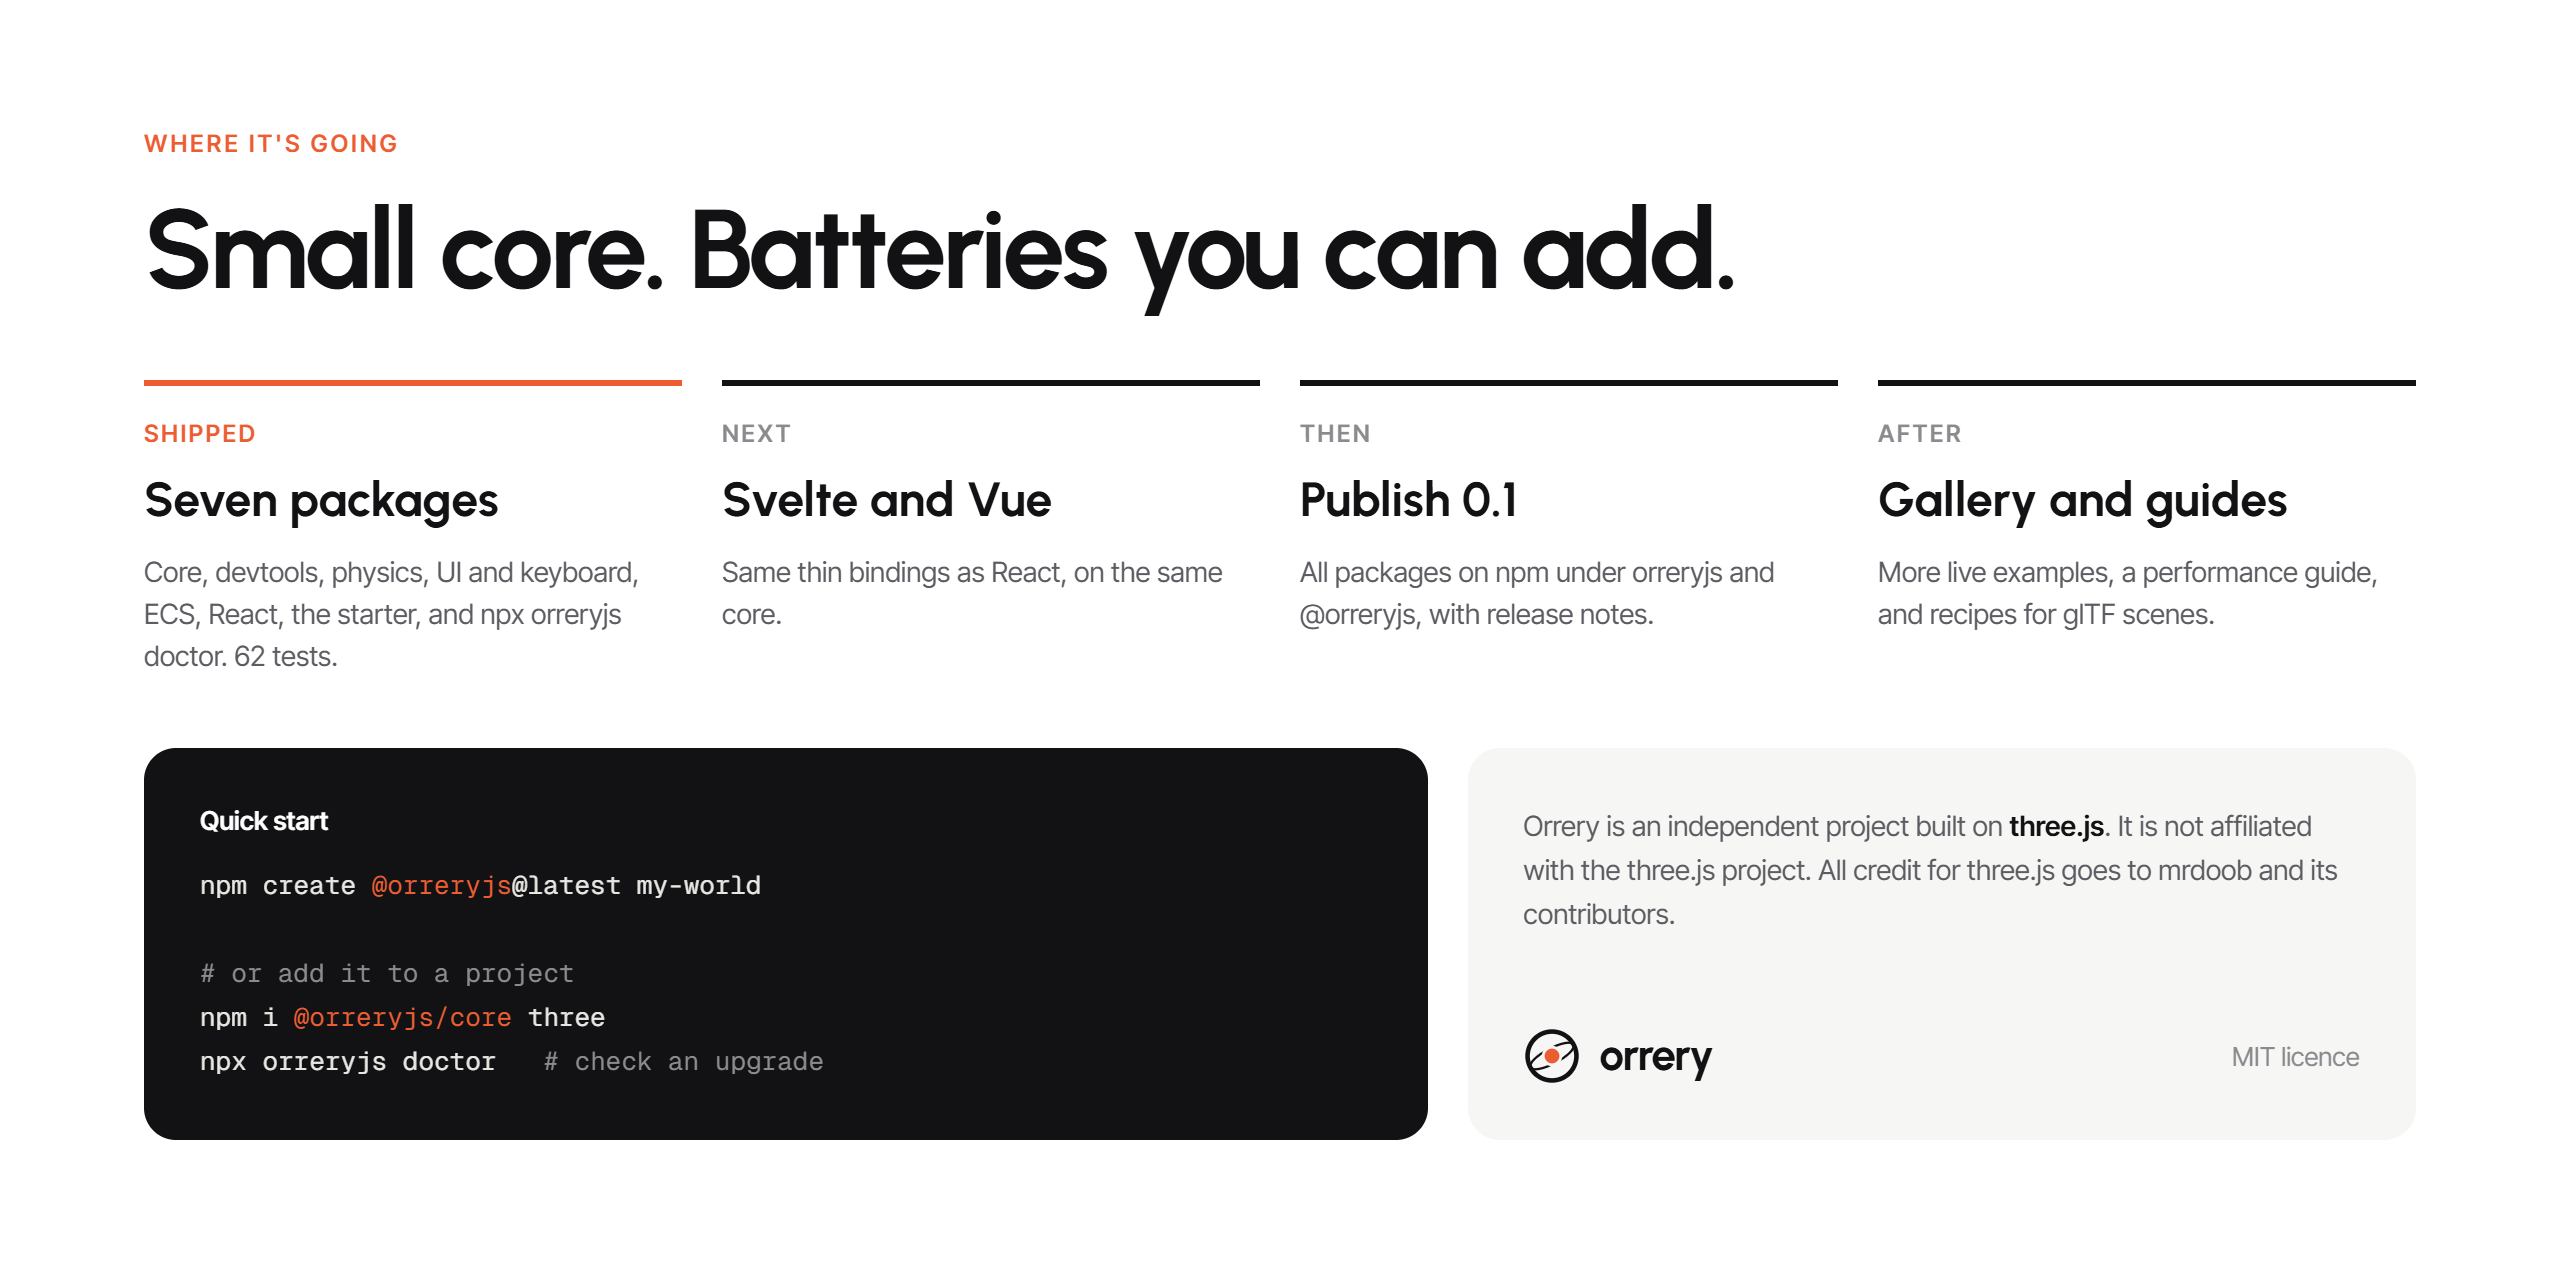
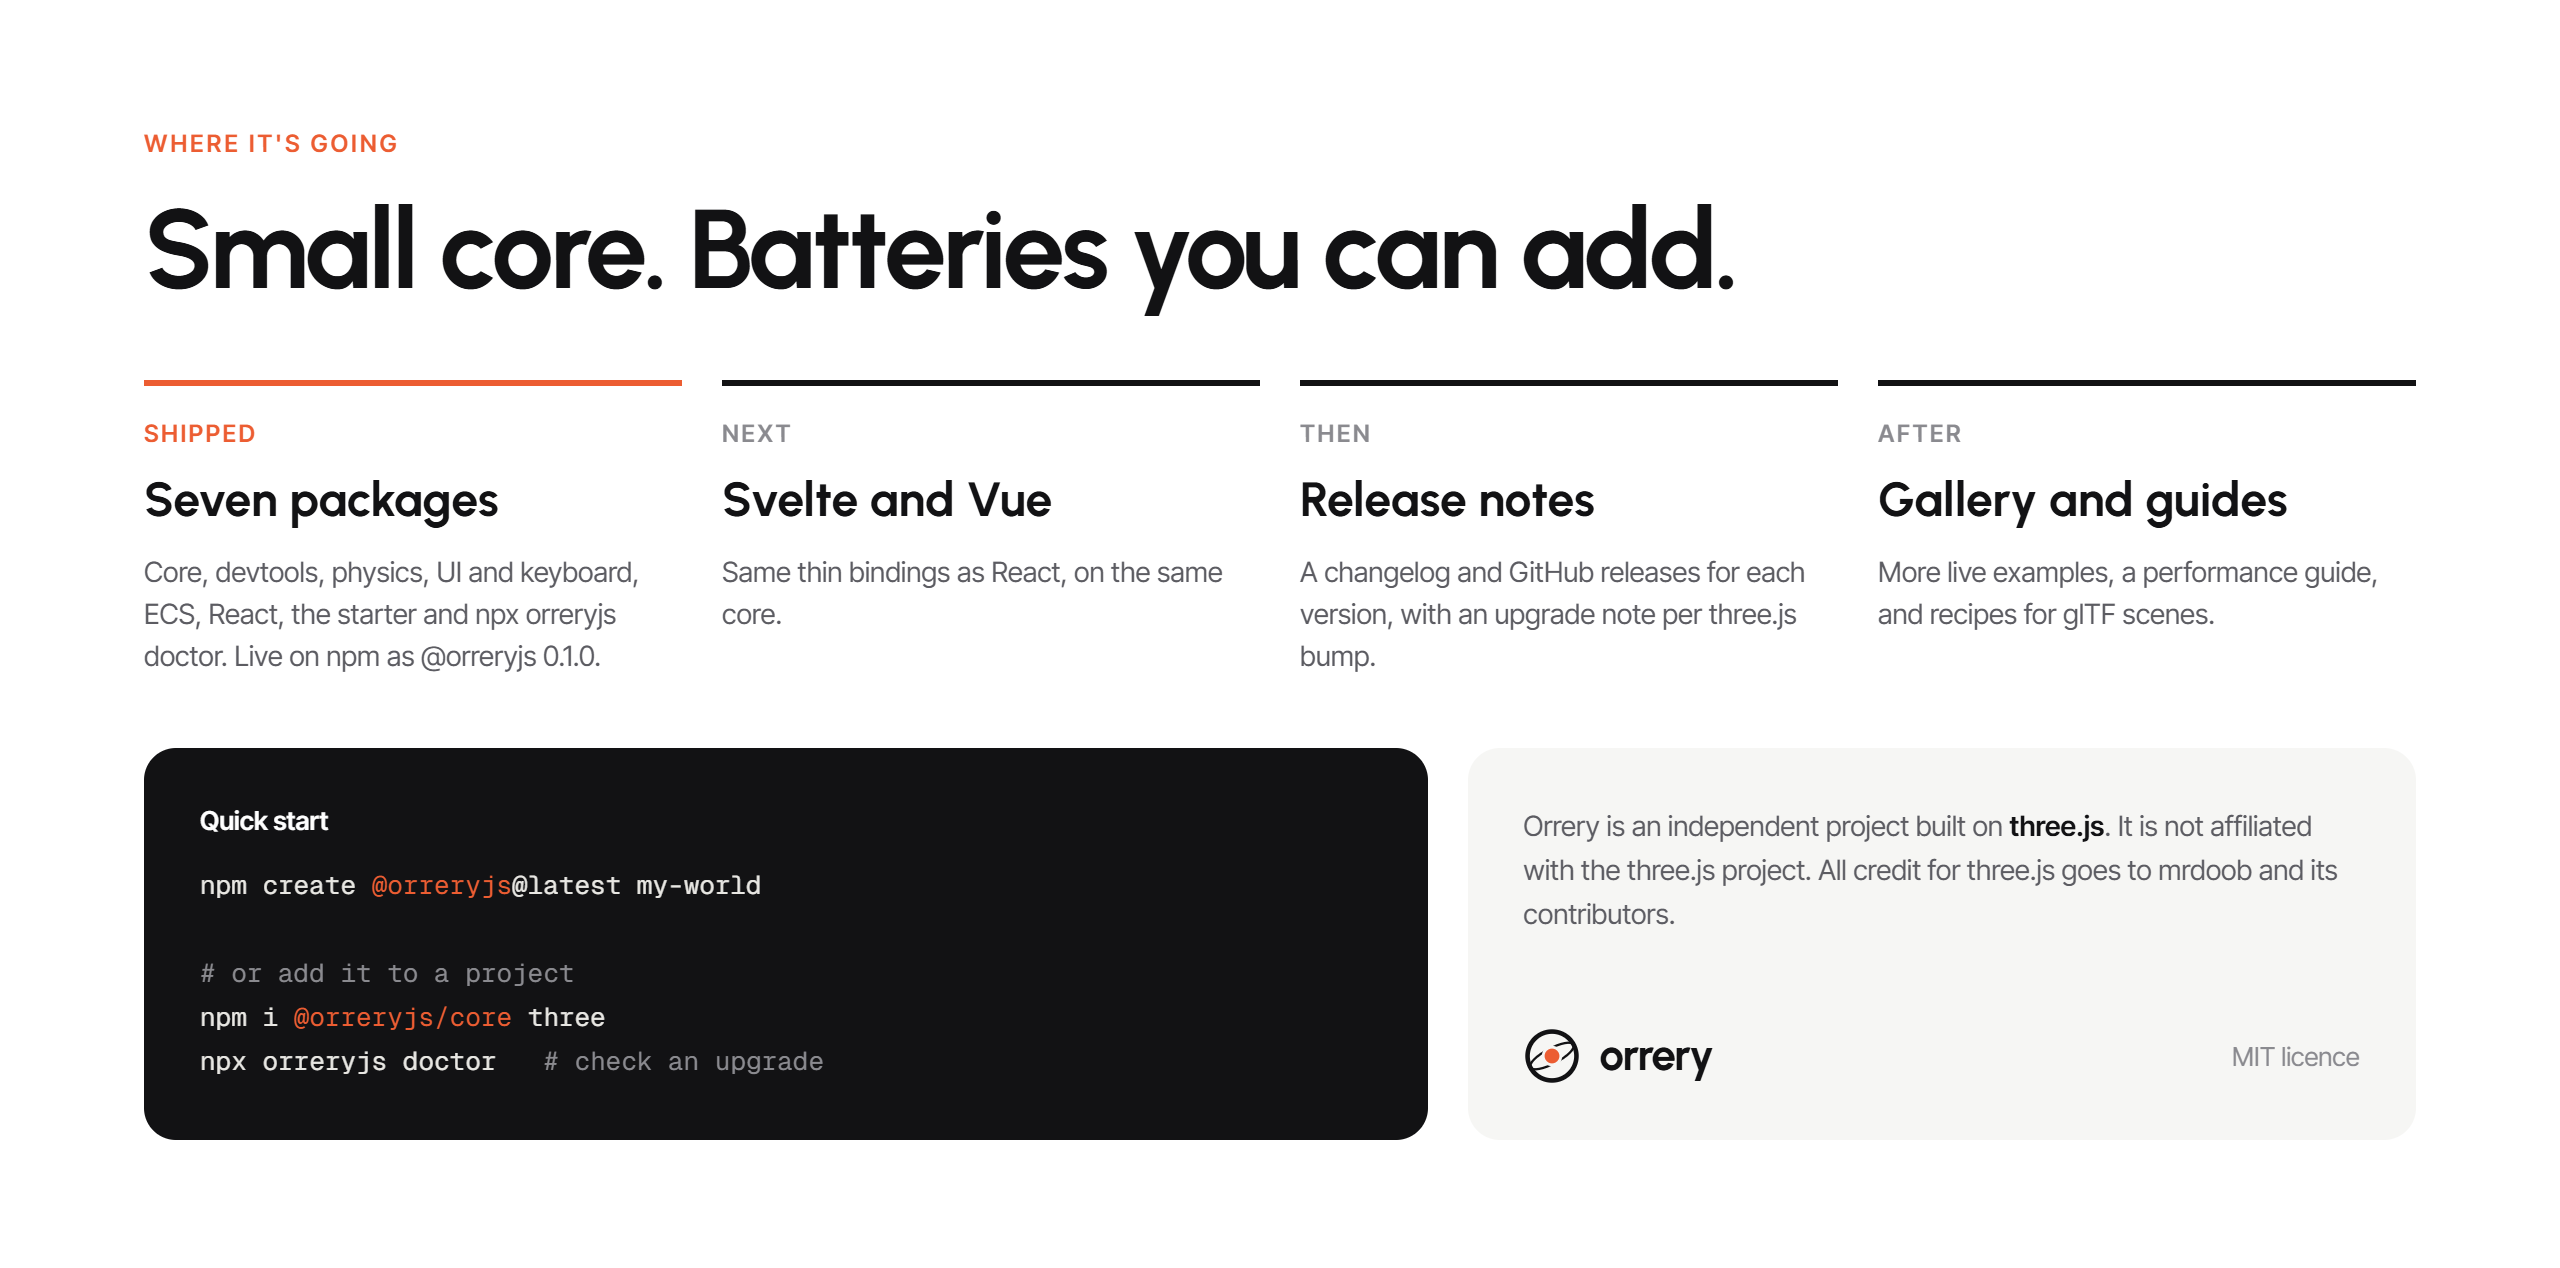
Released @orreryjs 0.1.0 to npm
- scripts/publish.ps1 publishes every package from a real terminal so
  npm can wait for security-key approval
- README: npm and CI badges; roadmap panel marks 0.1.0 as shipped
- Verified from the public registry: npm create @orreryjs, install, vite
  build, devtools on WebGPU in Chrome, npx orreryjs doctor all clear

Changed region(s): [[0.5, 0.3691, 0.7188, 0.5229], [0.0938, 0.4614, 0.25, 0.5229]]

diff --git a/packages/core/README.md b/packages/core/README.md
@@ -1,6 +1,12 @@
 <p align="center"><img src="https://raw.githubusercontent.com/mrigankad/Orrery/main/docs/readme/01-hero.png" alt="Orrery, batteries for three.js. Headline: Wind up a world. Watch it run. A small layer on three.js that lights your scene, frees GPU memory, gives objects click events and runs on WebGPU with WebGL as a fallback. Install with npm i @orreryjs/core three. Beside it, a live render of the Orrery demo: an orange sun with planets on orbit rings."></p>
 
 <p align="center">
+  <a href="https://www.npmjs.com/package/@orreryjs/core"><img src="https://img.shields.io/npm/v/@orreryjs/core?color=FF4F1A&label=%40orreryjs%2Fcore" alt="npm version" /></a>
+  <a href="https://github.com/mrigankad/Orrery/actions/workflows/ci.yml"><img src="https://github.com/mrigankad/Orrery/actions/workflows/ci.yml/badge.svg" alt="CI" /></a>
+  <img src="https://img.shields.io/badge/license-MIT-121214" alt="MIT" />
+</p>
+
+<p align="center">
   <a href="https://mrigankad.github.io/Orrery/"><b>Live demo</b></a> ·
   <a href="#quick-start">Quick start</a> ·
   <a href="#api">API</a> ·
@@ -124,7 +130,7 @@ Checks that three is installed and new enough, that there is only one copy of th
 
 ## Roadmap
 
-<p align="center"><img src="https://raw.githubusercontent.com/mrigankad/Orrery/main/docs/readme/04-roadmap.png" alt="Small core, batteries you can add. Shipped: seven packages (core, devtools, physics, UI and keyboard, ECS, React, the starter) and npx orreryjs doctor, with 62 tests. Next: Svelte and Vue bindings. Then: publish 0.1 to npm. After: a gallery and guides. Quick start: npm create @orreryjs@latest my-world."></p>
+<p align="center"><img src="https://raw.githubusercontent.com/mrigankad/Orrery/main/docs/readme/04-roadmap.png" alt="Small core, batteries you can add. Shipped: seven packages (core, devtools, physics, UI and keyboard, ECS, React, the starter) and npx orreryjs doctor, with 62 tests. Next: Svelte and Vue bindings. Live on npm as @orreryjs 0.1.0. Then: release notes. After: a gallery and guides. Quick start: npm create @orreryjs@latest my-world."></p>
 
 ## Develop
 

diff --git a/README.md b/README.md
@@ -1,6 +1,12 @@
 <p align="center"><img src="docs/readme/01-hero.png" alt="Orrery, batteries for three.js. Headline: Wind up a world. Watch it run. A small layer on three.js that lights your scene, frees GPU memory, gives objects click events and runs on WebGPU with WebGL as a fallback. Install with npm i @orreryjs/core three. Beside it, a live render of the Orrery demo: an orange sun with planets on orbit rings."></p>
 
 <p align="center">
+  <a href="https://www.npmjs.com/package/@orreryjs/core"><img src="https://img.shields.io/npm/v/@orreryjs/core?color=FF4F1A&label=%40orreryjs%2Fcore" alt="npm version" /></a>
+  <a href="https://github.com/mrigankad/Orrery/actions/workflows/ci.yml"><img src="https://github.com/mrigankad/Orrery/actions/workflows/ci.yml/badge.svg" alt="CI" /></a>
+  <img src="https://img.shields.io/badge/license-MIT-121214" alt="MIT" />
+</p>
+
+<p align="center">
   <a href="https://mrigankad.github.io/Orrery/"><b>Live demo</b></a> ·
   <a href="#quick-start">Quick start</a> ·
   <a href="#api">API</a> ·
@@ -124,7 +130,7 @@ Checks that three is installed and new enough, that there is only one copy of th
 
 ## Roadmap
 
-<p align="center"><img src="docs/readme/04-roadmap.png" alt="Small core, batteries you can add. Shipped: seven packages (core, devtools, physics, UI and keyboard, ECS, React, the starter) and npx orreryjs doctor, with 62 tests. Next: Svelte and Vue bindings. Then: publish 0.1 to npm. After: a gallery and guides. Quick start: npm create @orreryjs@latest my-world."></p>
+<p align="center"><img src="docs/readme/04-roadmap.png" alt="Small core, batteries you can add. Shipped: seven packages (core, devtools, physics, UI and keyboard, ECS, React, the starter) and npx orreryjs doctor, with 62 tests. Next: Svelte and Vue bindings. Live on npm as @orreryjs 0.1.0. Then: release notes. After: a gallery and guides. Quick start: npm create @orreryjs@latest my-world."></p>
 
 ## Develop
 
